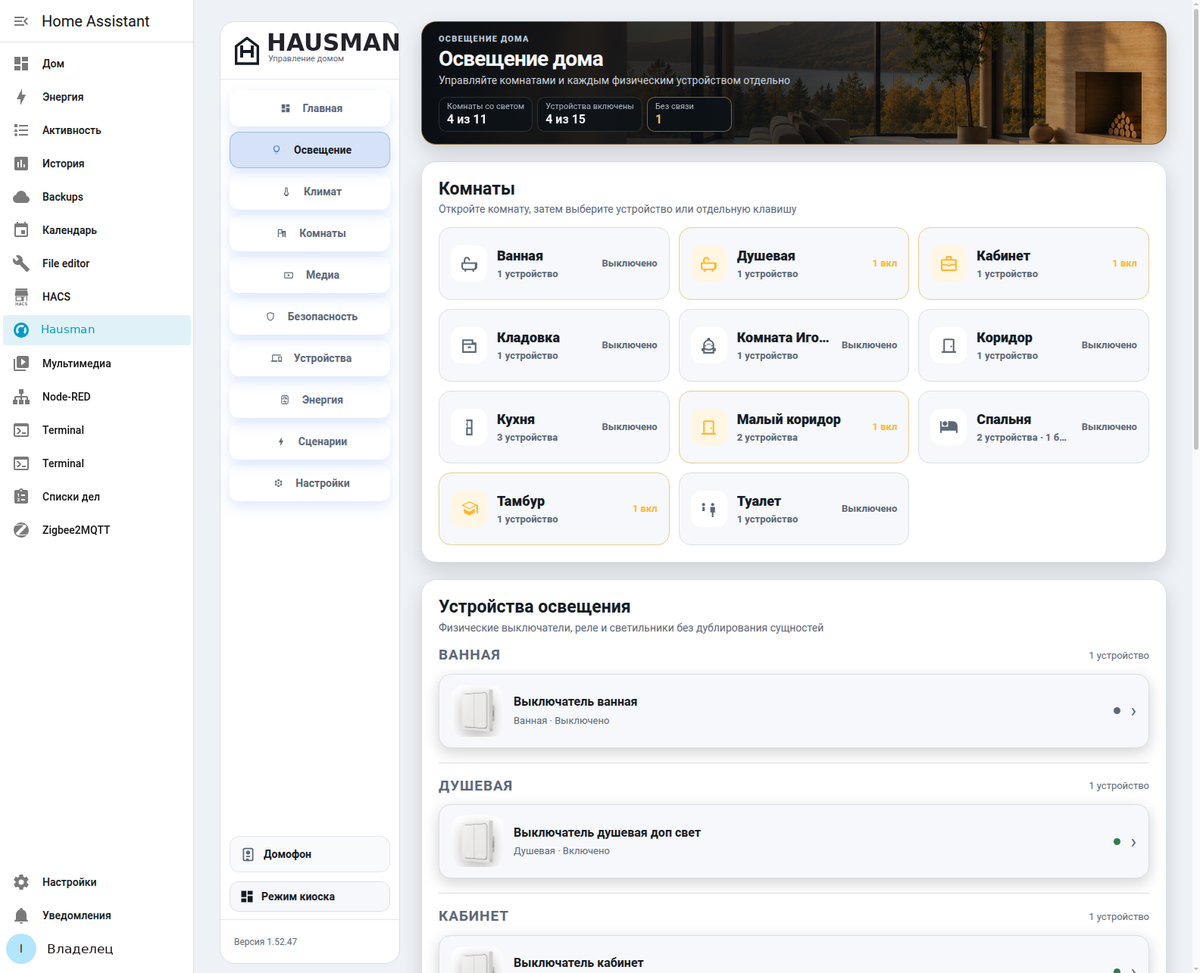
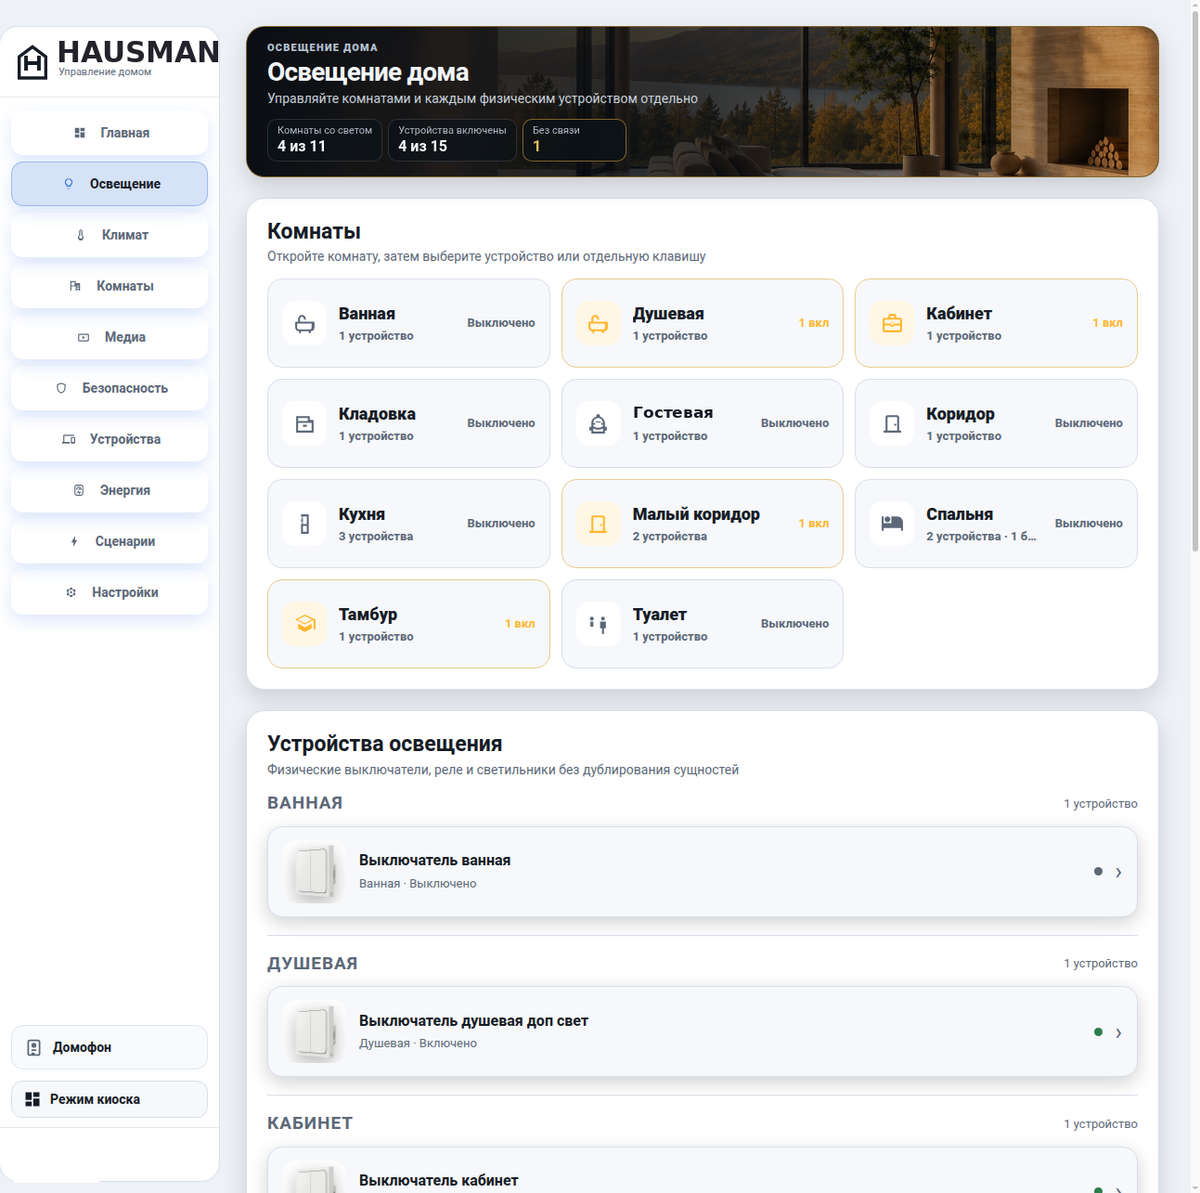
site: кликабельные скриншоты с полным размером, панель без меню HA, обезличенные имена источников энергии

diff --git a/index.html b/index.html
@@ -195,14 +195,13 @@
           <a href="#app-climate">Климат</a>
           <a href="#app-rooms">Комнаты</a>
           <a href="#app-media">Медиа</a>
-          <a href="#app-security">Безопасность</a>
           <a href="#app-energy">Энергия</a>
           <a href="#app-scenarios">Сценарии</a>
           <a href="#app-more">Ещё экраны</a>
         </nav>
 
         <div class="shot-row" id="app-home">
-          <img src="assets/screenshots/app-home.png" alt="Главный экран Hausman: обзор дома, климат, энергия, воздух и избранные сценарии" loading="lazy">
+          <a class="zoom" href="assets/screenshots/full/app-home.png" aria-label="Открыть скриншот в полном размере"><img src="assets/screenshots/app-home.png" alt="Главный экран Hausman: обзор дома, климат, энергия, воздух и избранные сценарии" loading="lazy"></a>
           <div>
             <h3>Главная</h3>
             <p>
@@ -220,7 +219,7 @@
         </div>
 
         <div class="shot-row rev" id="app-light">
-          <img src="assets/screenshots/app-light.png" alt="Раздел освещения Hausman: свет по комнатам и быстрые действия" loading="lazy">
+          <a class="zoom" href="assets/screenshots/full/app-light.png" aria-label="Открыть скриншот в полном размере"><img src="assets/screenshots/app-light.png" alt="Раздел освещения Hausman: свет по комнатам и быстрые действия" loading="lazy"></a>
           <div>
             <h3>Освещение</h3>
             <p>
@@ -233,7 +232,7 @@
         </div>
 
         <div class="shot-row" id="app-climate">
-          <img src="assets/screenshots/app-climate.png" alt="Раздел климата Hausman: цели и режимы по комнатам, микроклимат дома" loading="lazy">
+          <a class="zoom" href="assets/screenshots/full/app-climate.png" aria-label="Открыть скриншот в полном размере"><img src="assets/screenshots/app-climate.png" alt="Раздел климата Hausman: цели и режимы по комнатам, микроклимат дома" loading="lazy"></a>
           <div>
             <h3>Климат</h3>
             <p>
@@ -249,7 +248,7 @@
         </div>
 
         <div class="shot-row rev" id="app-rooms">
-          <img src="assets/screenshots/app-rooms.png" alt="Раздел комнат Hausman: карточки комнат с климатом, светом и связью" loading="lazy">
+          <a class="zoom" href="assets/screenshots/full/app-rooms.png" aria-label="Открыть скриншот в полном размере"><img src="assets/screenshots/app-rooms.png" alt="Раздел комнат Hausman: карточки комнат с климатом, светом и связью" loading="lazy"></a>
           <div>
             <h3>Комнаты</h3>
             <p>
@@ -261,7 +260,7 @@
         </div>
 
         <div class="shot-row" id="app-media">
-          <img src="assets/screenshots/app-media.png" alt="Раздел медиа Hausman: колонки и телевизоры по комнатам с управлением" loading="lazy">
+          <a class="zoom" href="assets/screenshots/full/app-media.png" aria-label="Открыть скриншот в полном размере"><img src="assets/screenshots/app-media.png" alt="Раздел медиа Hausman: колонки и телевизоры по комнатам с управлением" loading="lazy"></a>
           <div>
             <h3>Медиа</h3>
             <p>
@@ -272,20 +271,8 @@
           </div>
         </div>
 
-        <div class="shot-row rev" id="app-security">
-          <img src="assets/screenshots/app-security.png" alt="Раздел безопасности Hausman: окна, двери, датчики и тревоги" loading="lazy">
-          <div>
-            <h3>Безопасность</h3>
-            <p>
-              Открытые двери и окна, датчики движения, протечки, дым и газ -
-              отдельными карточками с температурой и зарядом рядом. То, что
-              требует внимания, поднимается наверх и подсвечивается.
-            </p>
-          </div>
-        </div>
-
         <div class="shot-row" id="app-energy">
-          <img src="assets/screenshots/app-energy.png" alt="Раздел энергии Hausman: мощность, ток, напряжение и история потребления" loading="lazy">
+          <a class="zoom" href="assets/screenshots/full/app-energy.png" aria-label="Открыть скриншот в полном размере"><img src="assets/screenshots/app-energy.png" alt="Раздел энергии Hausman: мощность, ток, напряжение и история потребления" loading="lazy"></a>
           <div>
             <h3>Энергия</h3>
             <p>
@@ -301,7 +288,7 @@
         </div>
 
         <div class="shot-row rev" id="app-scenarios">
-          <img src="assets/screenshots/app-scenarios.png" alt="Раздел сценариев Hausman: список сценариев с запуском и переключателями" loading="lazy">
+          <a class="zoom" href="assets/screenshots/full/app-scenarios.png" aria-label="Открыть скриншот в полном размере"><img src="assets/screenshots/app-scenarios.png" alt="Раздел сценариев Hausman: список сценариев с запуском и переключателями" loading="lazy"></a>
           <div>
             <h3>Сценарии</h3>
             <p>
@@ -316,23 +303,23 @@
         <h3 class="more-title" id="app-more">Ещё экраны приложения</h3>
         <div class="cards-5">
           <div class="screenshot-card">
-            <img src="assets/screenshots/app-editor.png" alt="Редактор сценария Hausman: шаги когда, если и что сделать" loading="lazy">
+            <a class="zoom" href="assets/screenshots/full/app-editor.png" aria-label="Открыть скриншот в полном размере"><img src="assets/screenshots/app-editor.png" alt="Редактор сценария Hausman: шаги когда, если и что сделать" loading="lazy"></a>
             <p>Редактор сценария: триггеры, условия и действия собираются по шагам, есть пробный запуск</p>
           </div>
           <div class="screenshot-card">
-            <img src="assets/screenshots/app-settings.png" alt="Настройки Hausman: подключение, комнаты в херо, журнал диагностики" loading="lazy">
+            <a class="zoom" href="assets/screenshots/full/app-settings.png" aria-label="Открыть скриншот в полном размере"><img src="assets/screenshots/app-settings.png" alt="Настройки Hausman: подключение, комнаты в херо, журнал диагностики" loading="lazy"></a>
             <p>Настройки: подключение к серверу, состав главной, технический журнал с маскировкой адресов</p>
           </div>
           <div class="screenshot-card">
-            <img src="assets/screenshots/app-confirm.png" alt="Диалог подтверждения команды в Hausman" loading="lazy">
+            <a class="zoom" href="assets/screenshots/full/app-confirm.png" aria-label="Открыть скриншот в полном размере"><img src="assets/screenshots/app-confirm.png" alt="Диалог подтверждения команды в Hausman" loading="lazy"></a>
             <p>Опасные команды требуют подтверждения</p>
           </div>
           <div class="screenshot-card">
-            <img src="assets/screenshots/app-intercom.png" alt="Домофон в Hausman: подтверждение открытия двери" loading="lazy">
+            <a class="zoom" href="assets/screenshots/full/app-intercom.png" aria-label="Открыть скриншот в полном размере"><img src="assets/screenshots/app-intercom.png" alt="Домофон в Hausman: подтверждение открытия двери" loading="lazy"></a>
             <p>Домофон: открытие двери с подтверждением</p>
           </div>
           <div class="screenshot-card">
-            <img src="assets/screenshots/app-away.png" alt="Сценарий «Вне дома» в Hausman перед выполнением" loading="lazy">
+            <a class="zoom" href="assets/screenshots/full/app-away.png" aria-label="Открыть скриншот в полном размере"><img src="assets/screenshots/app-away.png" alt="Сценарий «Вне дома» в Hausman перед выполнением" loading="lazy"></a>
             <p>Сценарий «Вне дома» показывает, что именно будет сделано</p>
           </div>
         </div>
@@ -362,43 +349,43 @@
         </nav>
         <div class="ha-gallery">
           <div class="screenshot-card" id="ha-main">
-            <img src="assets/screenshots/ha-overview.png" alt="Главная панели Hausman в Home Assistant: климат, цели, избранные сценарии и энергия" loading="lazy">
+            <a class="zoom" href="assets/screenshots/full/ha-overview.png" aria-label="Открыть скриншот в полном размере"><img src="assets/screenshots/ha-overview.png" alt="Главная панели Hausman в Home Assistant: климат, цели, избранные сценарии и энергия" loading="lazy"></a>
             <p>Главная: климат, цель, избранные сценарии, энергия и погода в одной сводке</p>
           </div>
           <div class="screenshot-card" id="ha-climate">
-            <img src="assets/screenshots/ha-climate.png" alt="Климат в панели Hausman: оборудование по типам и комнаты с целями" loading="lazy">
+            <a class="zoom" href="assets/screenshots/full/ha-climate.png" aria-label="Открыть скриншот в полном размере"><img src="assets/screenshots/ha-climate.png" alt="Климат в панели Hausman: оборудование по типам и комнаты с целями" loading="lazy"></a>
             <p>Климат: обзор оборудования по типам и цели по комнатам</p>
           </div>
           <div class="screenshot-card" id="ha-rooms">
-            <img src="assets/screenshots/ha-rooms.png" alt="Комнаты в панели Hausman: температура и влажность по каждой комнате" loading="lazy">
+            <a class="zoom" href="assets/screenshots/full/ha-rooms.png" aria-label="Открыть скриншот в полном размере"><img src="assets/screenshots/ha-rooms.png" alt="Комнаты в панели Hausman: температура и влажность по каждой комнате" loading="lazy"></a>
             <p>Комнаты: все помещения с температурой и влажностью</p>
           </div>
           <div class="screenshot-card" id="ha-devices">
-            <img src="assets/screenshots/ha-devices.png" alt="Устройства в панели Hausman: категории, сводка и устройства без комнаты" loading="lazy">
+            <a class="zoom" href="assets/screenshots/full/ha-devices.png" aria-label="Открыть скриншот в полном размере"><img src="assets/screenshots/ha-devices.png" alt="Устройства в панели Hausman: категории, сводка и устройства без комнаты" loading="lazy"></a>
             <p>Устройства: категории дома и честные списки «без связи» и «без комнаты»</p>
           </div>
           <div class="screenshot-card" id="ha-energy">
-            <img src="assets/screenshots/ha-energy.png" alt="Энергия в панели Hausman: нагрузка, график суток и настройка источников" loading="lazy">
+            <a class="zoom" href="assets/screenshots/full/ha-energy.png" aria-label="Открыть скриншот в полном размере"><img src="assets/screenshots/ha-energy.png" alt="Энергия в панели Hausman: нагрузка, график суток и настройка источников" loading="lazy"></a>
             <p>Энергия: нагрузка, график суток, источники и карточка на главную</p>
           </div>
           <div class="screenshot-card" id="ha-security">
-            <img src="assets/screenshots/ha-security.png" alt="Безопасность в панели Hausman: контуры, состояние и датчики доступа" loading="lazy">
+            <a class="zoom" href="assets/screenshots/full/ha-security.png" aria-label="Открыть скриншот в полном размере"><img src="assets/screenshots/ha-security.png" alt="Безопасность в панели Hausman: контуры, состояние и датчики доступа" loading="lazy"></a>
             <p>Безопасность: контуры протечек, окон, движения, камер и охраны</p>
           </div>
           <div class="screenshot-card" id="ha-scenarios">
-            <img src="assets/screenshots/ha-scenarios.png" alt="Сценарии в панели Hausman: быстрый запуск и редактирование" loading="lazy">
+            <a class="zoom" href="assets/screenshots/full/ha-scenarios.png" aria-label="Открыть скриншот в полном размере"><img src="assets/screenshots/ha-scenarios.png" alt="Сценарии в панели Hausman: быстрый запуск и редактирование" loading="lazy"></a>
             <p>Сценарии: запуск и изменение без технических сущностей</p>
           </div>
           <div class="screenshot-card" id="ha-media">
-            <img src="assets/screenshots/ha-media.png" alt="Медиа в панели Hausman: колонки и телевизоры по комнатам" loading="lazy">
+            <a class="zoom" href="assets/screenshots/full/ha-media.png" aria-label="Открыть скриншот в полном размере"><img src="assets/screenshots/ha-media.png" alt="Медиа в панели Hausman: колонки и телевизоры по комнатам" loading="lazy"></a>
             <p>Медиа: вся аудио- и видеотехника по комнатам</p>
           </div>
           <div class="screenshot-card" id="ha-lighting">
-            <img src="assets/screenshots/ha-lighting.png" alt="Освещение в панели Hausman: комнаты и устройства света" loading="lazy">
+            <a class="zoom" href="assets/screenshots/full/ha-lighting.png" aria-label="Открыть скриншот в полном размере"><img src="assets/screenshots/ha-lighting.png" alt="Освещение в панели Hausman: комнаты и устройства света" loading="lazy"></a>
             <p>Освещение: комнаты и устройства света с состоянием связи</p>
           </div>
           <div class="screenshot-card" id="ha-settings">
-            <img src="assets/screenshots/ha-settings.png" alt="Настройки панели Hausman: комнаты, подключение, домофон, интерфейс и диагностика" loading="lazy">
+            <a class="zoom" href="assets/screenshots/full/ha-settings.png" aria-label="Открыть скриншот в полном размере"><img src="assets/screenshots/ha-settings.png" alt="Настройки панели Hausman: комнаты, подключение, домофон, интерфейс и диагностика" loading="lazy"></a>
             <p>Настройки: комнаты, подключение, домофон, интерфейс и диагностика</p>
           </div>
         </div>
@@ -446,5 +433,40 @@
       <a href="https://github.com/shumkiiv/hausmanhub_hacs">GitHub</a>
     </div>
   </footer>
+
+  <div class="lightbox" id="lightbox" hidden>
+    <button class="lightbox-close" type="button" aria-label="Закрыть">&times;</button>
+    <img src="" alt="">
+  </div>
+  <script>
+    (function () {
+      var box = document.getElementById("lightbox");
+      var img = box.querySelector("img");
+      var close = box.querySelector(".lightbox-close");
+      function open(href, alt) {
+        img.src = href;
+        img.alt = alt || "";
+        box.hidden = false;
+        document.body.style.overflow = "hidden";
+      }
+      function hide() {
+        box.hidden = true;
+        img.src = "";
+        document.body.style.overflow = "";
+      }
+      document.querySelectorAll("a.zoom").forEach(function (a) {
+        a.addEventListener("click", function (ev) {
+          ev.preventDefault();
+          var im = a.querySelector("img");
+          open(a.href, im ? im.alt : "");
+        });
+      });
+      box.addEventListener("click", hide);
+      close.addEventListener("click", hide);
+      document.addEventListener("keydown", function (ev) {
+        if (ev.key === "Escape" && !box.hidden) hide();
+      });
+    })();
+  </script>
 </body>
 </html>

diff --git a/styles.css b/styles.css
@@ -416,3 +416,10 @@ section.alt .chips a {
 .cards-5 .screenshot-card {
   scroll-margin-top: 24px;
 }
+
+/* Кликабельные скриншоты и лайтбокс */
+.zoom{cursor:zoom-in;display:block}
+.lightbox{position:fixed;inset:0;background:rgba(10,14,20,.9);display:flex;align-items:center;justify-content:center;z-index:1000;padding:24px}
+.lightbox[hidden]{display:none}
+.lightbox img{max-width:96vw;max-height:92vh;border-radius:12px;box-shadow:0 24px 80px rgba(0,0,0,.5)}
+.lightbox-close{position:absolute;top:16px;right:20px;font-size:32px;color:#fff;background:none;border:0;cursor:pointer;line-height:1}
